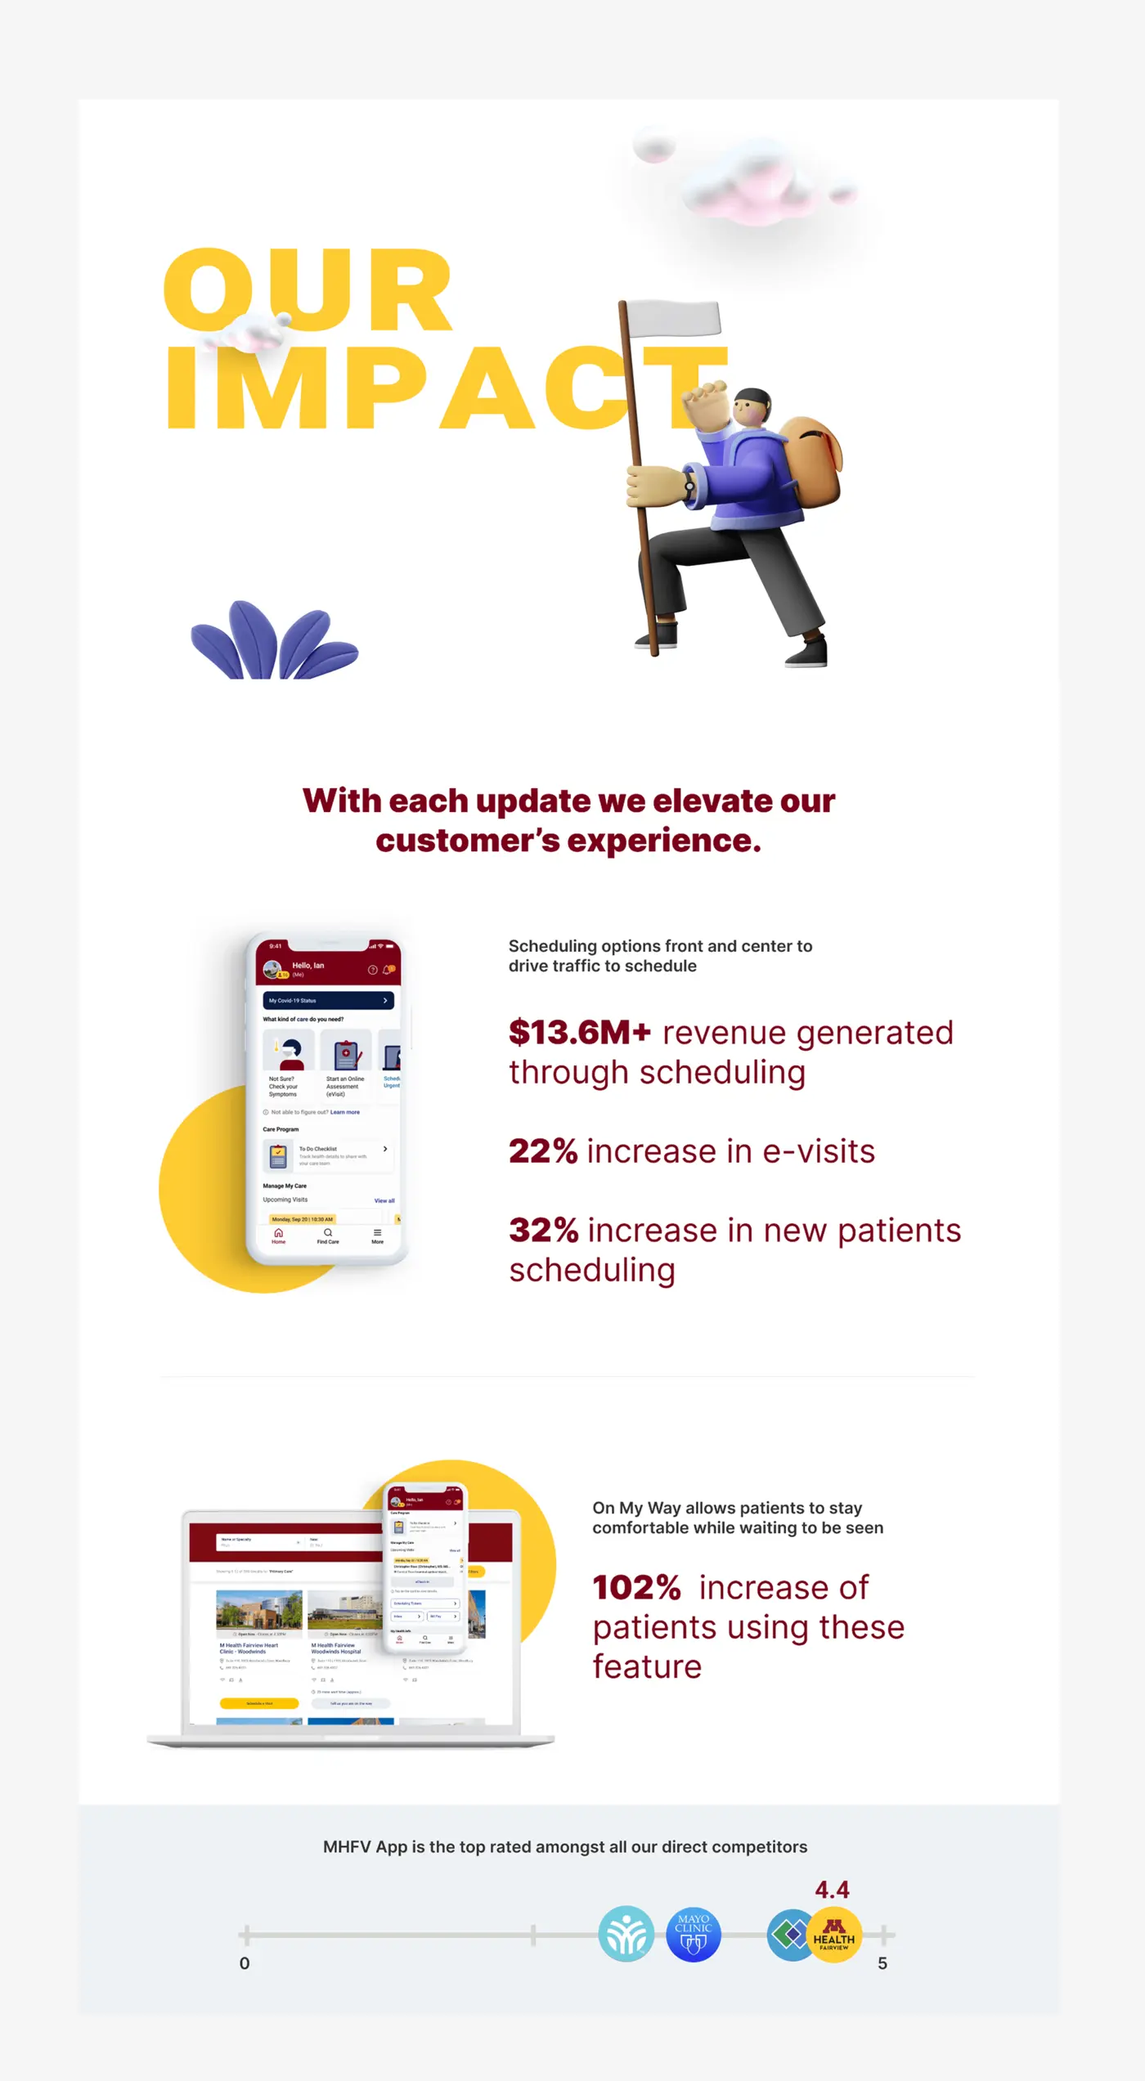
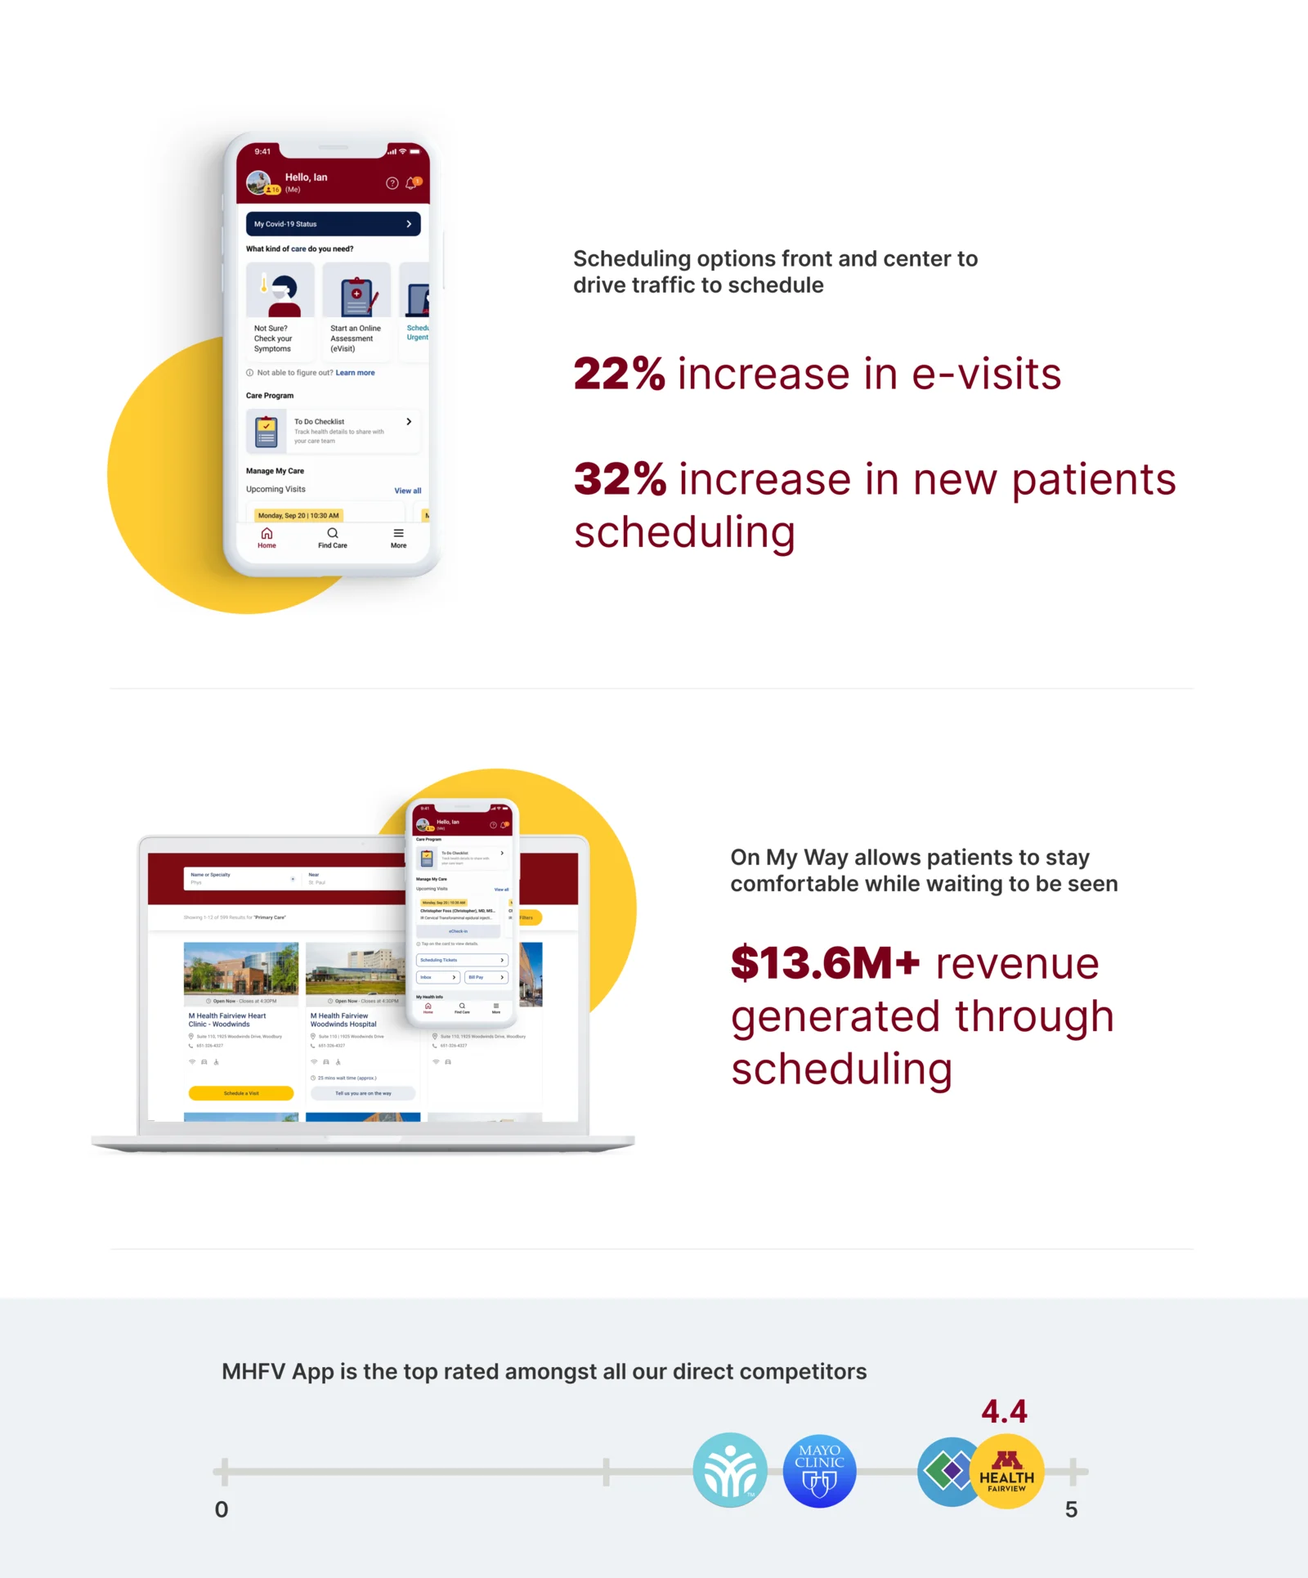
feat: Fairview tells its story in five chapters, and the dense boards open large
Sid: "its too long of a scroll and in the beginning i have no idea what
the story is ... this can come in the start ... a divider visual band
... on marriott a lot of the analysis that I do on the ui is too small
to be seen. they need to be perf and ready for tomorrow."

Fairview: rebuilt from the original deck. Opens on the Our Journey
cover, then five numbered chapters (about, problem, process, shipped,
impact) with the deck's five chapter cards running as a continuous
band between them. The six-stage process board and the full impact
board are new to the page. Eleven media blocks, fourteen before; the
audit and the process boards sit in grids rather than as bleeds.

Both pages: dense annotated boards carry an "Open larger" pill (the
custom cursor hid the zoom-in cursor) and the viewer shows a tall
board at full width and scrolls it, rather than fitting it to the
window at 600px. The Marriott spec board reads at 1296px in the viewer.

Verified: both pages, desktop and phone, zero errors, no 404s, no
overflow.

diff --git a/_includes/case_lightbox.html b/_includes/case_lightbox.html
@@ -59,6 +59,21 @@
     align-items: center;
     gap: 16px;
   }
+  /* Tall boards scroll rather than shrink. A 1400x1786 spec fitted to
+     the window's height rendered 600px wide, which is the size it was
+     unreadable at on the page. The viewer takes the picture at the full
+     width available and lets the reader scroll down it. */
+  .cslb.is-tall {
+    align-items: flex-start;
+    overflow-y: auto;
+  }
+  .cslb.is-tall .cslb__fig {
+    max-height: none;
+  }
+  .cslb.is-tall .cslb__img {
+    max-height: none;
+    width: min(100%, 1400px);
+  }
   .cslb__img {
     max-width: 100%;
     /* Room for the caption under it without either being cropped. */
@@ -112,6 +127,37 @@
      only honest way to say they now open is to say it on approach. */
   .proj-body img.cslb-able {
     cursor: zoom-in;
+  }
+  /* ── DENSE BOARDS SAY SO ────────────────────────────────────────────
+     Sid: "a lot of the analysis that I do on the ui is too small to be
+     seen." The annotated spec boards are 1400px wide with 11px callouts;
+     at grid width the callouts are texture. The cursor already says
+     zoom-in, but this site draws its own cursor, so nobody sees it. Any
+     media block marked data-zoom carries a pill that says it opens, and
+     the viewer shows the picture at the full height of the window. */
+  .proj-body [data-zoom] {
+    position: relative;
+  }
+  .proj-body [data-zoom]::after {
+    content: "Open larger";
+    position: absolute;
+    right: 14px;
+    bottom: 14px;
+    z-index: 2;
+    padding: 7px 12px;
+    border-radius: 999px;
+    font: 500 11px/1 var(--font-mono, ui-monospace, monospace);
+    letter-spacing: 0.08em;
+    text-transform: uppercase;
+    color: #0b0e14;
+    background: rgba(255, 255, 255, 0.92);
+    box-shadow: 0 2px 10px rgba(0, 0, 0, 0.3);
+    pointer-events: none;
+    opacity: 0.9;
+    transition: opacity 200ms ease;
+  }
+  .proj-body [data-zoom]:hover::after {
+    opacity: 1;
   }
   @media (prefers-reduced-motion: reduce) {
     .cslb__close {
@@ -172,6 +218,12 @@
       if (!el) return;
       index = i;
       img.src = el.currentSrc || el.src;
+      /* Taller than wide, and taller than the window at full width: let
+         the viewer scroll it instead of fitting it. */
+      var nw = el.naturalWidth || 1,
+        nh = el.naturalHeight || 1;
+      box.classList.toggle("is-tall", nh / nw > 1.05 && (Math.min(window.innerWidth, 1400) * nh) / nw > window.innerHeight);
+      box.scrollTop = 0;
       img.alt = el.alt || "";
       var t = captionFor(el);
       cap.textContent = t;

diff --git a/_pages/m-health-fairview.md b/_pages/m-health-fairview.md
@@ -63,106 +63,77 @@ next_project:
 <style>
   @keyframes fvBreathe { 0%,100%{transform:scale(1) translateY(0);} 50%{transform:scale(1.006) translateY(-2px);} }
 </style>
+<style>
+  /* ── THE BAND ────────────────────────────────────────────────────────
+     Sid: "this one can be a zoomed in and since its a wide image can
+     continuously have motion and keep going in one direction like a
+     divider visual band." Five chapter cards from the original deck, run
+     as one strip that never stops: the image twice in a row, translated
+     by half its width on a loop, so the seam is invisible. It marks each
+     chapter of the page. */
+  .fv-band { overflow: hidden; margin: clamp(40px, 6vw, 88px) 0; -webkit-mask-image: linear-gradient(90deg, transparent, #000 6%, #000 94%, transparent); mask-image: linear-gradient(90deg, transparent, #000 6%, #000 94%, transparent); }
+  .fv-band__track { display: flex; width: max-content; animation: fvBand 48s linear infinite; }
+  .fv-band__track img { display: block; height: clamp(120px, 16vw, 220px); width: auto; }
+  @keyframes fvBand { to { transform: translateX(-50%); } }
+  @media (prefers-reduced-motion: reduce) { .fv-band__track { animation: none; } }
+</style>
 
-<!-- ── THE ORDER, AND WHY ────────────────────────────────────────────────
-     Sid: "in the fairview page there is one metric screen you can bring that
-     before and an ai chat which takes too much space add it to a grid. also
-     keep the icons which are animated and the movie version and remove the
-     other version which is jsut a png. also a lot of pages have too much of a
-     scroll with too many full length images which dont deserve to be there or
-     the order of the work details needs to be better to tell the story
-     better."
+<!-- ── THE STORY, IN ORDER ─────────────────────────────────────────────
+     Sid: "its too long of a scroll and in the beginning i have no idea what
+     the story is." Rebuilt as five chapters, each opened by the band from
+     the original deck: what Fairview is, what was broken, what we did,
+     what shipped, what it did. Eleven media blocks, down from fourteen. -->
 
-     All four of those were the same page. It ran as fourteen full-bleed
-     blocks in a single column, every one of them the same size and therefore
-     the same importance, and the numbers that justify the whole project were
-     the fourteenth thing you reached.
-
-     THE IMPACT MOVES UP. It now follows the before-and-after, because that
-     pairing is the argument: here is what changed, here is what it did.
-     Everything after it is the detail of how, which is the right thing to
-     read second and the wrong thing to read for six screens before you have
-     been told whether it worked.
-
-     FOUR PAIRS BECOME GRIDS. Business needs and the heuristic audit are one
-     analysis and were two scrolls. Constraints and research likewise. The
-     assistant is a 796x1126 phone recording that was being served at the same
-     width as a 1600px desktop board, which is where "takes too much space"
-     comes from — it is beside the prepare-for-your-visit screen now, at the
-     size a phone actually is.
-
-     THE STATIC ICONS COME OUT. 09-compare.webp was one tall screenshot
-     carrying the specialty icon grid AND the care-type comparison table, and
-     the icon grid in it is the same set that specialty-icons.mp4 animates two
-     blocks later. The still is cropped down to the comparison table, so the
-     icons appear once, moving.
-
-     Fourteen bleeds to eight bleeds and three grids. -->
+<div class="cs-bleed"><img src="{{ site.baseurl }}/assets/img/fairview/00-journey.webp" alt="Our journey: the M Health Fairview project" loading="lazy" decoding="async" /></div>
 
 <div class="cs-section">
-  <h2 class="cs-section-label">The brief</h2>
+  <h2 class="cs-section-label">01 · About the project</h2>
 </div>
+<p class="cube-cap cube-cap--above">One of Minnesota's largest health systems: 100+ hospitals and 60 clinics, one promise to patients.</p>
+<div class="cs-bleed"><img src="{{ site.baseurl }}/assets/img/fairview/00-about.webp" alt="M Health Fairview: care you can trust, on your terms" loading="lazy" decoding="async" /></div>
 
-<!-- ── ONE CAPTION PER GROUP, NOT PER PICTURE ──────────────────────────
-     Sid: "see that we're not using captions for every single divider page,
-     because that increases more vertical spacing and we have a longer scroll
-     in general." And: "we don't need a dash which says Loyalty Enrollment and
-     then another number which says Loyalty Enrollment below it."
+<div class="fv-band" aria-hidden="true"><div class="fv-band__track"><img src="{{ site.baseurl }}/assets/img/fairview/band.webp" alt="" loading="lazy" decoding="async" /><img src="{{ site.baseurl }}/assets/img/fairview/band.webp" alt="" loading="lazy" decoding="async" /></div></div>
 
-     Counted, this page captioned every image it had. Consecutive runs then
-     said the same thing three ways -- the dashboard, then the dashboard
-     specified, then the dashboard's occupancy, then the dashboard's
-     reservations -- and each caption costs a 24px margin plus its own line
-     before the picture it introduces.
-
-     What survives is the caption that carries a DESIGN point: what the screen
-     is for, or what was decided. What goes is the caption that names what a
-     reader can already see. The pictures still read in sequence because they
-     are in sequence; they did not each need announcing. -->
-<p class="cube-cap cube-cap--above">The requirement, broken down with Deloitte Digital.</p>
-<div class="cs-bleed"><img src="{{ site.baseurl }}/assets/img/fairview/01-requirements.webp" alt="Client requirements and problems to solve" loading="lazy" decoding="async" /></div>
-
-<p class="cube-cap cube-cap--above">The audit: a broken booking flow, and a misleading Emergency Care button.</p>
-<div class="cs-grid cs-grid--fit">
-  <div class="cs-grid-item"><img src="{{ site.baseurl }}/assets/img/fairview/02-needs.webp" alt="Business needs, user needs and heuristic analysis" loading="lazy" decoding="async" /></div>
-  <div class="cs-grid-item"><img src="{{ site.baseurl }}/assets/img/fairview/03-audit.webp" alt="Annotated heuristic audit of the existing site" loading="lazy" decoding="async" /></div>
+<div class="cs-section">
+  <h2 class="cs-section-label">02 · The problem</h2>
 </div>
-
-<p class="cube-cap cube-cap--above">The constraints: a third party API, two sprints, no access to patients.</p>
+<p class="cube-cap cube-cap--above">Four problems for patients, five needs for the business. The brief was to solve both on one page.</p>
+<div class="cs-bleed" data-zoom><img src="{{ site.baseurl }}/assets/img/fairview/01-requirements.webp" alt="Problems to solve and business needs" loading="lazy" decoding="async" /></div>
+<p class="cube-cap cube-cap--above">The audit: a booking flow that broke, an Emergency Care button that misled, and no patient access to test against.</p>
 <div class="cs-grid cs-grid--fit">
-  <div class="cs-grid-item"><img src="{{ site.baseurl }}/assets/img/fairview/04-constraints.webp" alt="Project constraints" loading="lazy" decoding="async" /></div>
-  <div class="cs-grid-item"><img src="{{ site.baseurl }}/assets/img/fairview/05-research.webp" alt="Secondary research, ideation and initial concepts" loading="lazy" decoding="async" /></div>
+  <div class="cs-grid-item" data-zoom><img src="{{ site.baseurl }}/assets/img/fairview/03-audit.webp" alt="Annotated heuristic audit of the existing site" loading="lazy" decoding="async" /></div>
+  <div class="cs-grid-item" data-zoom><img src="{{ site.baseurl }}/assets/img/fairview/04-constraints.webp" alt="Project constraints: third party API, two sprints, no patient access" loading="lazy" decoding="async" /></div>
 </div>
 
 <div class="cs-section">
-  <h2 class="cs-section-label">What changed</h2>
+  <h2 class="cs-section-label">03 · The process</h2>
+</div>
+<p class="cube-cap cube-cap--above">Six stages, two sprints. Discover and define with the functional team, design against a feasibility check, deliver hi-fi with dev notes, then QA every build.</p>
+<div class="cs-grid cs-grid--fit">
+  <div class="cs-grid-item" data-zoom><img src="{{ site.baseurl }}/assets/img/fairview/14-process.webp" alt="The six-stage process: discover, define, design, deliver, develop, deploy" loading="lazy" decoding="async" /></div>
+  <div class="cs-grid-item" data-zoom><img src="{{ site.baseurl }}/assets/img/fairview/05-research.webp" alt="Secondary research, ideation and initial concepts" loading="lazy" decoding="async" /></div>
 </div>
 
-<p class="cube-cap cube-cap--above">Before and after. Every action in the first fold, sorted by urgency.</p>
+<div class="cs-section">
+  <h2 class="cs-section-label">04 · What shipped</h2>
+</div>
+<p class="cube-cap cube-cap--above">Before and after. Every action in the first fold, sorted by how soon you need care.</p>
 <div class="cs-bleed"><img src="{{ site.baseurl }}/assets/img/fairview/06-beforeafter.webp" alt="Before and after of the Get Care page" loading="lazy" decoding="async" /></div>
-
-<p class="cube-cap cube-cap--above">$13.6M in scheduling revenue, and 32% more new patients booking themselves.</p>
-<!-- The "OUR IMPACT" title panel and the 3D climber above it are cropped off. Sid: "there's this whole image which says Our Impact, like it's a long image. We can cut that Our Impact 3D model section and just have this latter part of the image." A stock 3D character holding a flag is stage dressing in front of the only numbers on the page, and on a 2,545px tall image it is the first thousand pixels a reader has to scroll past to reach them. The crop starts at y=900, just above "With each update we elevate our customer's experience", which is where the content actually begins. -->
-<div class="cs-bleed" style="text-align:center;"><img src="{{ site.baseurl }}/assets/img/fairview/13-impact-crop.webp" alt="Impact metrics: $13.6M revenue through scheduling, 22% more e-visits, 32% more new patients scheduling" loading="lazy" decoding="async" /></div>
-
-<div class="cs-section">
-  <h2 class="cs-section-label">The system</h2>
-</div>
-
-<p class="cube-cap cube-cap--above">The new entry point. One clear place to start.</p>
+<p class="cube-cap cube-cap--above">The new entry point, in motion.</p>
 <div class="cs-bleed"><video width="1200" height="674" autoplay muted loop playsinline preload="none" poster="{{ site.baseurl }}/assets/img/fairview/07-choose-poster.jpg" aria-label="Choose the right care page in motion"><source src="{{ site.baseurl }}/assets/img/fairview/07-choose.mp4" type="video/mp4" /></video></div>
-
-<div class="cs-bleed"><img src="{{ site.baseurl }}/assets/img/fairview/08-getcare.webp" alt="Get Care Today and Schedule Your Care" loading="lazy" decoding="async" /></div>
-
-<p class="cube-cap cube-cap--above">Care types compared by cost, wait and what they treat.</p>
-<div class="cs-bleed"><img src="{{ site.baseurl }}/assets/img/fairview/09-comparison.webp" alt="Side by side comparison of every care type by cost, wait and what it treats" loading="lazy" decoding="async" /></div>
-
-<div class="cs-bleed"><video width="1600" height="908" src="{{ site.baseurl }}/assets/img/fairview/specialty-icons.mp4" poster="{{ site.baseurl }}/assets/img/fairview/specialty-icons-poster.webp" autoplay muted loop playsinline preload="metadata" aria-label="The M Health Fairview specialty care icons animating in a grid"></video></div>
-
-<div class="cs-bleed"><img src="{{ site.baseurl }}/assets/img/fairview/10-caretypes.gif" alt="Care type selection in motion" loading="lazy" decoding="async" /></div>
-
-<p class="cube-cap cube-cap--above">A helper for patients who would rather be led than browse.</p>
+<p class="cube-cap cube-cap--above">Care types compared by cost, wait and what they treat, and the specialty set that carries them.</p>
+<div class="cs-grid cs-grid--fit">
+  <div class="cs-grid-item" data-zoom><img src="{{ site.baseurl }}/assets/img/fairview/09-comparison.webp" alt="Side by side comparison of every care type by cost, wait and what it treats" loading="lazy" decoding="async" /></div>
+  <div class="cs-grid-item"><video width="1600" height="908" src="{{ site.baseurl }}/assets/img/fairview/specialty-icons.mp4" poster="{{ site.baseurl }}/assets/img/fairview/specialty-icons-poster.webp" autoplay muted loop playsinline preload="metadata" aria-label="The M Health Fairview specialty care icons animating in a grid"></video></div>
+</div>
+<p class="cube-cap cube-cap--above">A helper for patients who would rather be led than browse, and a checklist for the visit itself.</p>
 <div class="cs-grid cs-grid--fit">
   <div class="cs-grid-item"><video width="796" height="1126" autoplay muted loop playsinline preload="none" poster="{{ site.baseurl }}/assets/img/fairview/11-assistant-poster.jpg" aria-label="Conversational care assistant"><source src="{{ site.baseurl }}/assets/img/fairview/11-assistant.mp4" type="video/mp4" /></video></div>
   <div class="cs-grid-item"><img src="{{ site.baseurl }}/assets/img/fairview/12-prepare.webp" alt="Prepare for your appointment" loading="lazy" decoding="async" /></div>
 </div>
+
+<div class="cs-section">
+  <h2 class="cs-section-label">05 · Impact</h2>
+</div>
+<p class="cube-cap cube-cap--above">$13.6M through scheduling, 32% more new patients booking themselves, 22% more e-visits, and the top-rated care app against every direct competitor.</p>
+<div class="cs-bleed" style="text-align:center;"><img src="{{ site.baseurl }}/assets/img/fairview/13-impact.webp" alt="Impact: 22% more e-visits, 32% more new patients scheduling, $13.6M revenue through scheduling, 4.4 rated app" loading="lazy" decoding="async" style="max-width:1100px;width:100%;" /></div>

diff --git a/_pages/marriott.md b/_pages/marriott.md
@@ -81,7 +81,7 @@ next_project:
      reader can already see. The pictures still read in sequence because they
      are in sequence; they did not each need announcing. -->
 <p class="cube-cap cube-cap--above">An employee app for Marriott staff, across every Bonvoy property.</p>
-<div class="cs-bleed"><img src="{{ site.baseurl }}/assets/img/marriott/01-what.webp" alt="What we did, Marriott Bonvoy employee app" loading="lazy" decoding="async" /></div>
+<div class="cs-bleed" data-zoom><img src="{{ site.baseurl }}/assets/img/marriott/01-what.webp" alt="What we did, Marriott Bonvoy employee app" loading="lazy" decoding="async" /></div>
 
 <div class="cs-section">
   <h2 class="cs-section-label">The dashboard</h2>
@@ -91,7 +91,7 @@ next_project:
 <div class="cs-bleed"><img src="{{ site.baseurl }}/assets/img/marriott/02-dashboard.gif" alt="SPOG dashboard overview in motion" loading="lazy" decoding="async" /></div>
 
 <p class="cube-cap cube-cap--above">The specification. Every element mapped to a requirement.</p>
-<div class="cs-bleed"><img src="{{ site.baseurl }}/assets/img/marriott/03-spec.webp" alt="Annotated dashboard specification" loading="lazy" decoding="async" /></div>
+<div class="cs-bleed" data-zoom><img src="{{ site.baseurl }}/assets/img/marriott/03-spec.webp" alt="Annotated dashboard specification" loading="lazy" decoding="async" /></div>
 
 <div class="cs-bleed"><video width="1200" height="674" autoplay muted loop playsinline preload="none" poster="{{ site.baseurl }}/assets/img/marriott/04-overview-poster.jpg" aria-label="Operational overview metrics"><source src="{{ site.baseurl }}/assets/img/marriott/04-overview.mp4" type="video/mp4" /></video></div>
 
@@ -104,7 +104,7 @@ next_project:
 <p class="cube-cap cube-cap--above">Loyalty enrolment, without leaving the desk.</p>
 <div class="cs-bleed"><video width="1100" height="618" autoplay muted loop playsinline preload="none" poster="{{ site.baseurl }}/assets/img/marriott/06-enroll-poster.jpg" aria-label="Bonvoy loyalty enrolment carousel"><source src="{{ site.baseurl }}/assets/img/marriott/06-enroll.mp4" type="video/mp4" /></video></div>
 
-<div class="cs-bleed"><img src="{{ site.baseurl }}/assets/img/marriott/07-enrollspec.webp" alt="Loyalty enrolment key functionality" loading="lazy" decoding="async" /></div>
+<div class="cs-bleed" data-zoom><img src="{{ site.baseurl }}/assets/img/marriott/07-enrollspec.webp" alt="Loyalty enrolment key functionality" loading="lazy" decoding="async" /></div>
 
 <div class="cs-bleed"><video width="1100" height="618" autoplay muted loop playsinline preload="none" poster="{{ site.baseurl }}/assets/img/marriott/08-enrollmodal-poster.jpg" aria-label="Enroll new member modal"><source src="{{ site.baseurl }}/assets/img/marriott/08-enrollmodal.mp4" type="video/mp4" /></video></div>
 
